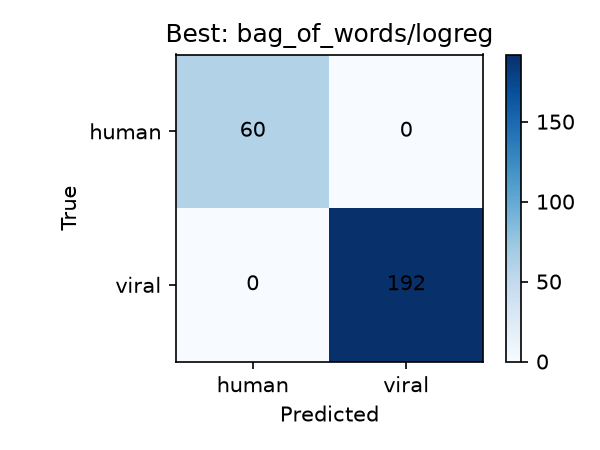
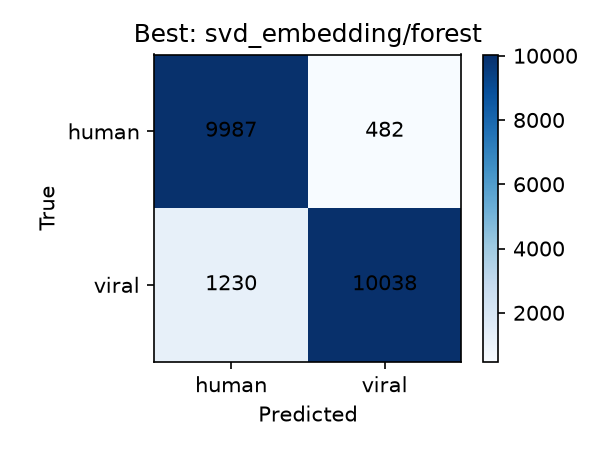
Output results and figures

diff --git a/src/explore.py b/src/explore.py
@@ -110,7 +110,7 @@ def top_discriminative_kmers(df: pd.DataFrame, k: int, top_n=15):
 
 if __name__ == "__main__":
     from data_io import prepare_dataset
-    df, rejected = prepare_dataset(pd.read_csv("data/raw/sequences.csv"))
+    df, rejected = prepare_dataset(pd.read_csv("data/real/nextvir_sequences.csv"))
     if rejected:
         print(f"Skipped {rejected} invalid sequences")
     plot_length_gc_distributions(df, "outputs/figures")
